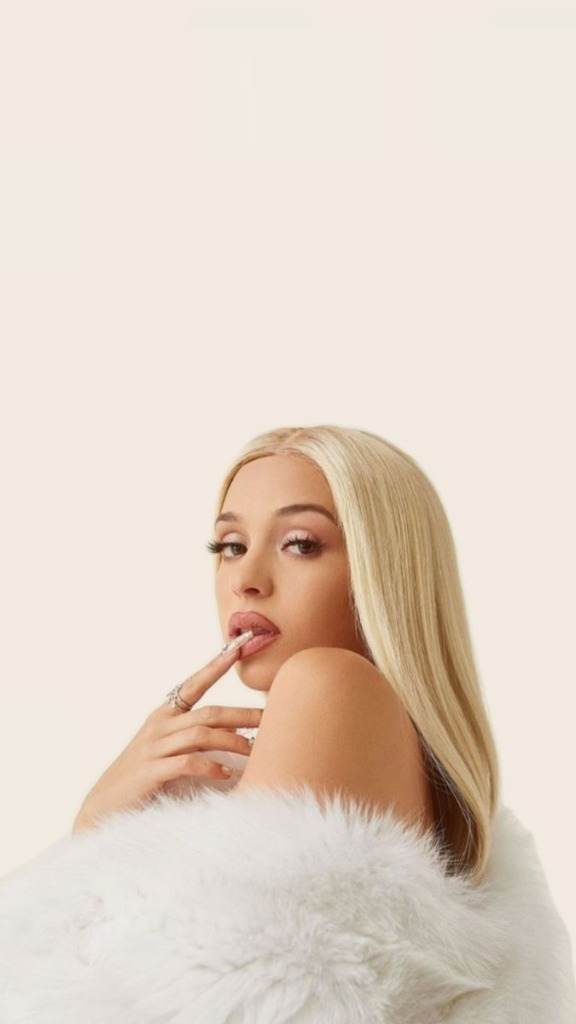
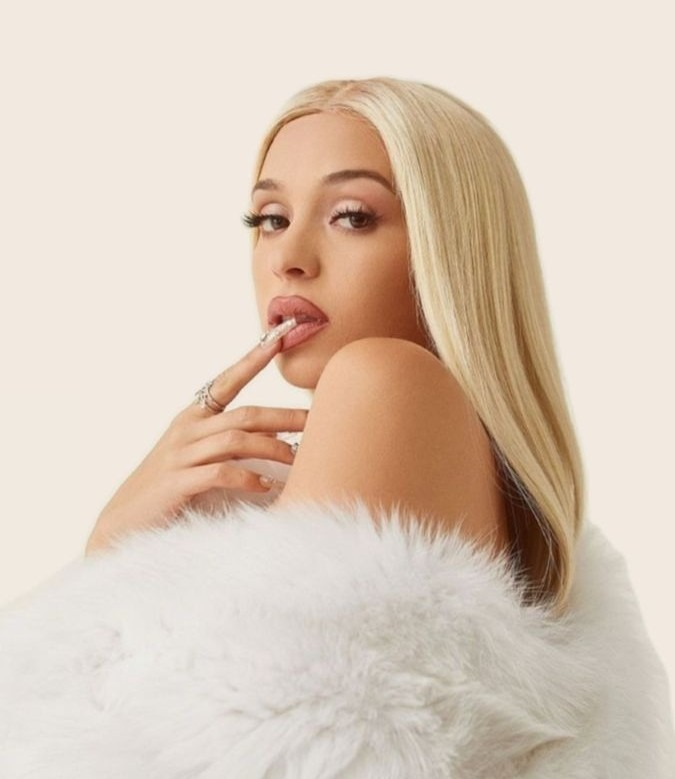
feat(landing): update framing for 2 model cards and replace celebrity names with garment titles

diff --git a/frontend/src/app/landing-page/landing-page.component.ts b/frontend/src/app/landing-page/landing-page.component.ts
@@ -77,7 +77,7 @@ export class LandingPageComponent implements OnInit, AfterViewInit, OnDestroy {
   curatedPieces: ArPiece[] = [
     {
       id: 'model-01',
-      name: 'Bad Gyal Streetwear Denim',
+      name: 'Conjunto Denim Urbano & Crop Top',
       category: 'Streetwear',
       material: 'Algodón peinado & Denim 14oz',
       price: 149,
@@ -87,17 +87,17 @@ export class LandingPageComponent implements OnInit, AfterViewInit, OnDestroy {
     },
     {
       id: 'model-02',
-      name: 'Bad Gyal Arctic Faux Fur',
+      name: 'Abrigo de Piel Sintética Ártica',
       category: 'Alta Costura',
       material: 'Piel sintética ártica premium & satén',
       price: 489,
-      imageUrl: 'assets/images/models/bad_gyal_fur_coat.jpg',
+      imageUrl: 'assets/images/models/bad_gyal_fur_coat.jpg?v=2',
       isArReady: true,
       drapeDetail: 'Silueta envolvente con cuello esmoquin y forro de satén acolchado.'
     },
     {
       id: 'model-03',
-      name: 'Quevedo GQ Aviator Sherpa',
+      name: 'Chaqueta Aviador Cuero & Sherpa',
       category: 'Moda Masculina',
       material: 'Cuero napa vacuno & Cuello borrego',
       price: 380,
@@ -107,17 +107,17 @@ export class LandingPageComponent implements OnInit, AfterViewInit, OnDestroy {
     },
     {
       id: 'model-04',
-      name: 'Corset Escultural Rosa Atelier',
+      name: 'Vestido Corsetero Escultural Rosa',
       category: 'Alta Costura',
       material: 'Crepé de seda & Ballenas flexibles',
       price: 620,
-      imageUrl: 'assets/images/models/vestido_corset_rosa.jpg',
+      imageUrl: 'assets/images/models/vestido_corset_rosa.jpg?v=2',
       isArReady: true,
       drapeDetail: 'Entallado de silueta reloj de arena con soporte anatómico interior.'
     },
     {
       id: 'model-05',
-      name: 'Bad Gyal Y2K Ripped Flare',
+      name: 'Jeans Flare Desgastados Y2K',
       category: 'Streetwear',
       material: 'Denim vintage con roturas láser',
       price: 175,
@@ -127,7 +127,7 @@ export class LandingPageComponent implements OnInit, AfterViewInit, OnDestroy {
     },
     {
       id: 'model-06',
-      name: 'Bad Gyal Glitter Naked Dress',
+      name: 'Vestido Red Glitter Espalda Abierta',
       category: 'Alta Costura',
       material: 'Malla metálica & Cristales checos',
       price: 540,
@@ -137,7 +137,7 @@ export class LandingPageComponent implements OnInit, AfterViewInit, OnDestroy {
     },
     {
       id: 'model-07',
-      name: 'Baggy Denim Essential Fit',
+      name: 'Jeans Baggy Skate & Musculosa',
       category: 'Streetwear',
       material: 'Denim orgánico lavado piedra',
       price: 130,
@@ -147,7 +147,7 @@ export class LandingPageComponent implements OnInit, AfterViewInit, OnDestroy {
     },
     {
       id: 'model-08',
-      name: 'Kylie Jenner Tailored Poplin',
+      name: 'Camisa Entallada Popelina & Estola',
       category: 'Sastrería',
       material: 'Popelina egipcia & Visón sintético',
       price: 310,
@@ -157,7 +157,7 @@ export class LandingPageComponent implements OnInit, AfterViewInit, OnDestroy {
     },
     {
       id: 'model-09',
-      name: 'Oversized Streetwear Denim Look',
+      name: 'Pantalón Denim Oversized Skater',
       category: 'Streetwear',
       material: 'Denim pesado 100% algodón',
       price: 140,
@@ -167,7 +167,7 @@ export class LandingPageComponent implements OnInit, AfterViewInit, OnDestroy {
     },
     {
       id: 'model-10',
-      name: 'Rauw Alejandro Camel Tailoring',
+      name: 'Traje Sastre Oversized Tono Arena',
       category: 'Moda Masculina',
       material: 'Lana tropical tono camello',
       price: 750,
@@ -177,7 +177,7 @@ export class LandingPageComponent implements OnInit, AfterViewInit, OnDestroy {
     },
     {
       id: 'model-11',
-      name: 'Athleisure Biker & Chunky Sneaker',
+      name: 'Conjunto Biker Seamless & Sneakers',
       category: 'Athleisure',
       material: 'Microfibra elástica & Suela EVA multicapa',
       price: 220,
@@ -187,7 +187,7 @@ export class LandingPageComponent implements OnInit, AfterViewInit, OnDestroy {
     },
     {
       id: 'model-12',
-      name: 'Varsity Sport Basketball Edition',
+      name: 'Chaqueta Bomber Varsity & Shorts',
       category: 'Athleisure',
       material: 'Algodón peinado & Felpa francesa',
       price: 260,
@@ -197,7 +197,7 @@ export class LandingPageComponent implements OnInit, AfterViewInit, OnDestroy {
     },
     {
       id: 'model-13',
-      name: 'Gym Training Pro Monochrome',
+      name: 'Conjunto Deportivo Monocromo Pro',
       category: 'Athleisure',
       material: 'Poliamida seamless 4-way stretch',
       price: 195,
@@ -207,7 +207,7 @@ export class LandingPageComponent implements OnInit, AfterViewInit, OnDestroy {
     },
     {
       id: 'model-14',
-      name: 'Sydney Sweeney Double Denim Boxy',
+      name: 'Total Look Denim Campera Boxy',
       category: 'Streetwear',
       material: 'Denim añejo índigo puro',
       price: 290,
@@ -217,7 +217,7 @@ export class LandingPageComponent implements OnInit, AfterViewInit, OnDestroy {
     },
     {
       id: 'model-15',
-      name: 'Sydney Sweeney Silk Slip Dress',
+      name: 'Vestido Lencero de Satén Celeste',
       category: 'Alta Costura',
       material: 'Satén de seda natural celeste',
       price: 420,

diff --git a/frontend/src/app/landing-page/landing-page.component.html b/frontend/src/app/landing-page/landing-page.component.html
@@ -87,7 +87,7 @@
             <div class="image-frame group">
               <img
                 src="assets/images/bad_gyal_pink_outfit.jpg?v=1"
-                alt="Bad Gyal modelando outfit rosado FashionStore SaaS"
+                alt="Conjunto de moda femenina FashionStore SaaS"
                 class="hero-photo"
               />
               <div class="spatial-badge">
